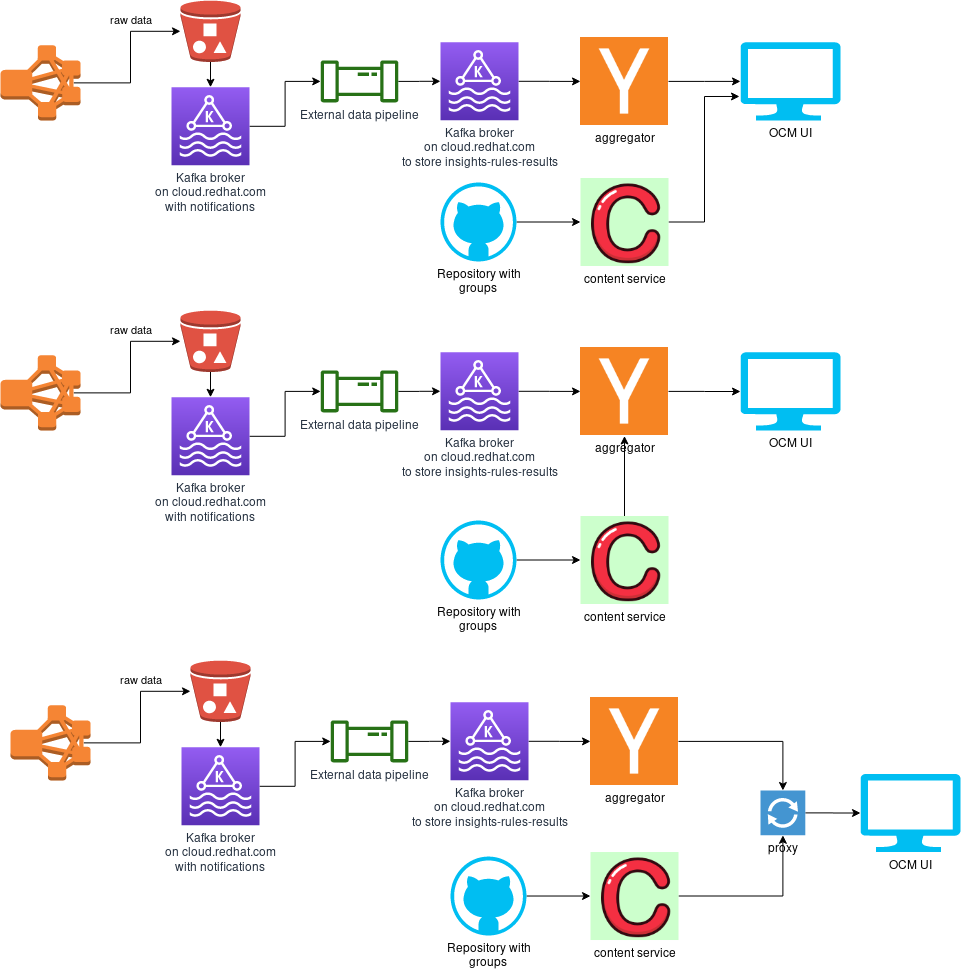
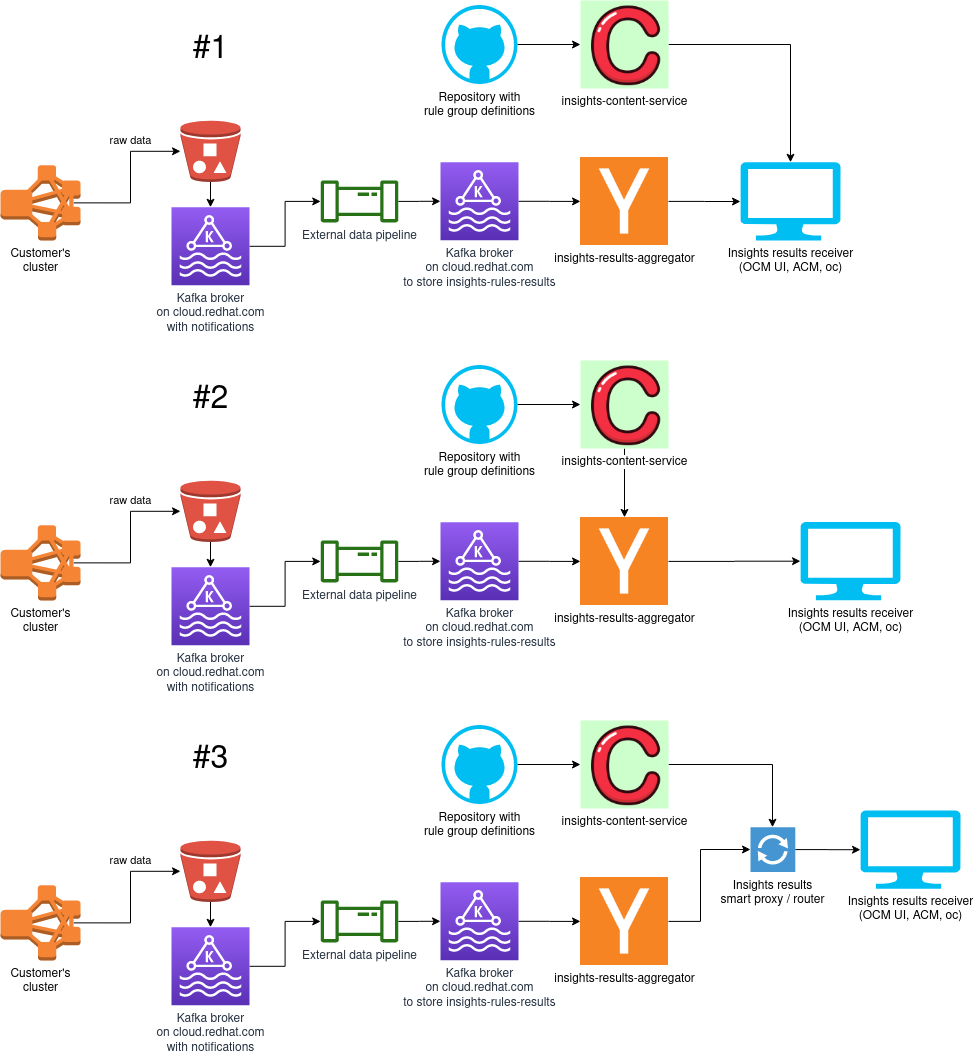
update architecture diagrams and chosen external data pipeline architecture for content-service

diff --git a/README.md b/README.md
@@ -23,6 +23,15 @@ Content Service consists of three main parts:
 1. HTTP or HTTPS server that exposes REST API endpoints that can be used to read a single rule
    metadata content, a list of groups and a list of tags that belongs to a group.
 
+## Content service in the external data pipeline
+
+The chosen architecture at this point is architecture #2 (docs/architectures), where the insights-content-service will now be called directly from insights-results-aggregator, which will send complete information about the rules in one call, along with the rule groups retrived from content-service.
+
+From the long term perspective, architecture #3 is desirable, where all conent-related processing will be moved from aggregator to content-service.
+The proxy/router will route requests accordingly, which is temporarily done by aggregator in architecture #2.
+
+![architecture_2](./docs/architecture_2.png)
+
 ## Documentation for developers
 
 N/A
